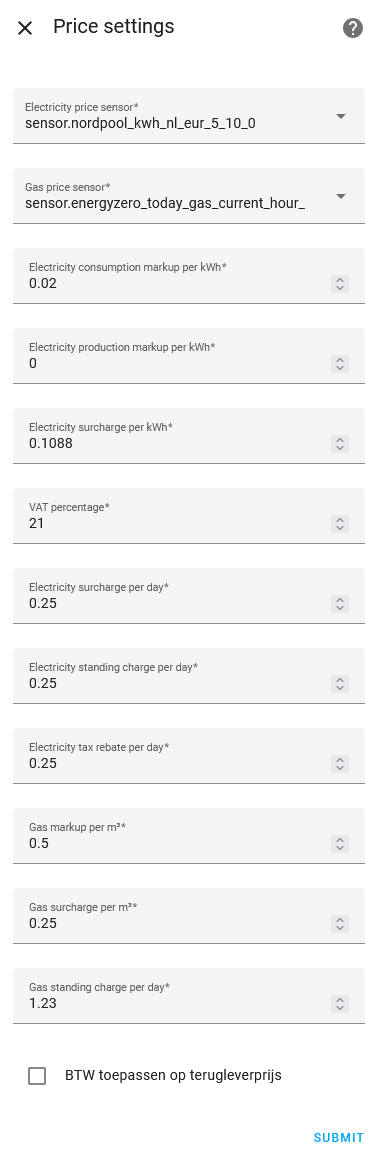
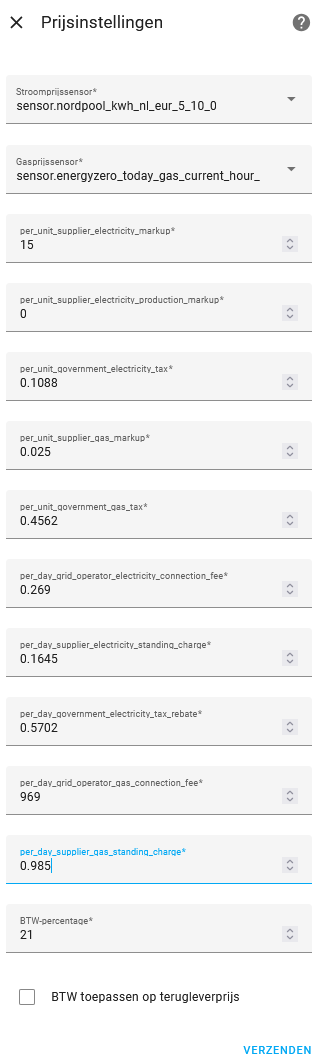
Update price settings example

diff --git a/README.md b/README.md
@@ -238,6 +238,8 @@ provides the current tariff.
 This screen lets you configure markups, surcharges and VAT. The values are added
 on top of the base price reported by your price sensor.
 
+The example above is based on a ANWB Dynamic Contract, with Enexis as grid operator and tax settings according to 2025 with gas consumption <500m3 per year and electricity <10.000kWh per year.
+
 ### 4. Resulting sensors
 
 ![Example production sensor](assets/readme/example_production_sensor.png)
